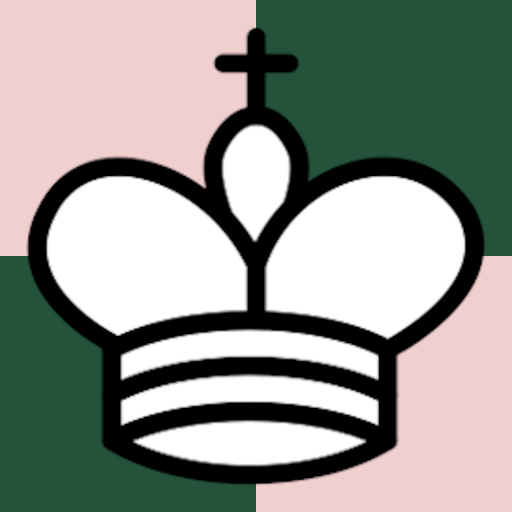
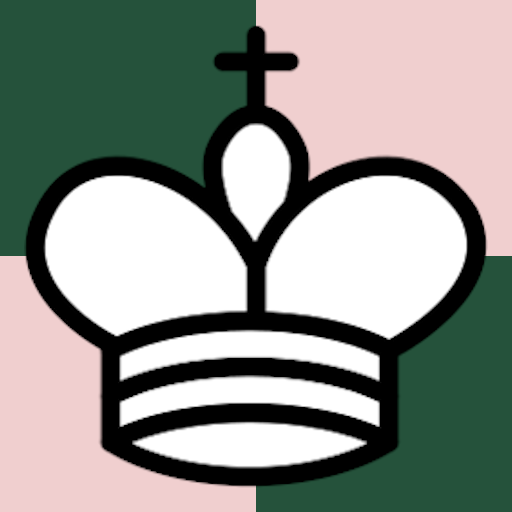
Version 4.2 -Add more options for the black tile color: Dark Green and Dark Gray -Add option to change the white tile color: White or Pink

diff --git a/src/chess_gui/SettingsWindow.java b/src/chess_gui/SettingsWindow.java
@@ -19,6 +19,7 @@ import enumerations.AiType;
 import enumerations.Allegiance;
 import enumerations.GameMode;
 import enumerations.GuiStyle;
+import utilities.Constants;
 import utilities.GameParameters;
 
 
@@ -36,6 +37,7 @@ public class SettingsWindow extends JFrame {
 	private JLabel aiTypeLabel;
 	private JLabel maxDepth1Label;
 	private JLabel maxDepth2Label;
+	private JLabel whiteTileColorLabel;
 	private JLabel blackTileColorLabel;
 	private JLabel numOfRowsLabel;
 
@@ -46,6 +48,7 @@ public class SettingsWindow extends JFrame {
 	private JComboBox<String> ai_type_drop_down;
 	private JComboBox<Integer> max_depth1_drop_down;
 	private JComboBox<Integer> max_depth2_drop_down;
+	private JComboBox<String> white_tile_color_drop_down;
 	private JComboBox<String> black_tile_color_drop_down;
 	SpinnerModel spinnerModel = new SpinnerNumberModel(8, 4, 8, 1);     
 	private JSpinner num_of_rows_spinner = new JSpinner(spinnerModel);
@@ -56,7 +59,7 @@ public class SettingsWindow extends JFrame {
 	private EventHandler handler;
 	
 	public static int width = 450;
-	public static int height = 410;
+	public static int height = 440;
 	
 	
 	public SettingsWindow() {
@@ -77,6 +80,7 @@ public class SettingsWindow extends JFrame {
 		AiType selectedAiMode = ChessGUI.gameParameters.aiType;
 		int maxDepth1 = ChessGUI.gameParameters.maxDepth1 - 1;
 		int maxDepth2 = ChessGUI.gameParameters.maxDepth2 - 1;
+		Color selectedWhiteTileColor = ChessGUI.gameParameters.whiteTileColor;
 		Color selectedBlackTileColor = ChessGUI.gameParameters.blackTileColor;
 		int numOfRows = ChessGUI.gameParameters.numOfRows;
 
@@ -88,6 +92,7 @@ public class SettingsWindow extends JFrame {
 		aiTypeLabel = new JLabel("AI type");
 		maxDepth1Label = new JLabel("Minimax AI 1 depth");
 		maxDepth2Label = new JLabel("Minimax AI 2 depth (AiVsAi)");
+		whiteTileColorLabel = new JLabel("White tile color");
 		blackTileColorLabel = new JLabel("Black tile color");
 		numOfRowsLabel = new JLabel("Number of rows");
 
@@ -99,6 +104,7 @@ public class SettingsWindow extends JFrame {
 		add(aiTypeLabel);
 		add(maxDepth1Label);
 		add(maxDepth2Label);
+		add(whiteTileColorLabel);
 		add(blackTileColorLabel);
 		add(numOfRowsLabel);
 
@@ -162,15 +168,29 @@ public class SettingsWindow extends JFrame {
 		
 		max_depth2_drop_down.setSelectedIndex(maxDepth2);
 		
+		white_tile_color_drop_down = new JComboBox<String>();
+		white_tile_color_drop_down.addItem("White");
+		white_tile_color_drop_down.addItem("Pink");
+		
+		if (selectedWhiteTileColor == Color.WHITE)
+			white_tile_color_drop_down.setSelectedIndex(0);
+		else if (selectedWhiteTileColor == Constants.BRIGHT_PINK)
+			white_tile_color_drop_down.setSelectedIndex(1);
+		
 		black_tile_color_drop_down = new JComboBox<String>();
+		black_tile_color_drop_down.addItem("Dark Green");
 		black_tile_color_drop_down.addItem("Black");
+		black_tile_color_drop_down.addItem("Dark Gray");
 		black_tile_color_drop_down.addItem("Gray");
 		
-		if (selectedBlackTileColor == Color.BLACK)
+		if (selectedBlackTileColor == Constants.DARK_GREEN)
 			black_tile_color_drop_down.setSelectedIndex(0);
-		else if (selectedBlackTileColor == Color.GRAY)
+		else if (selectedBlackTileColor == Color.DARK_GRAY)
 			black_tile_color_drop_down.setSelectedIndex(1);
-		
+		else if (selectedBlackTileColor == Color.GRAY)
+			black_tile_color_drop_down.setSelectedIndex(2);
+		else if (selectedBlackTileColor == Color.BLACK)
+			black_tile_color_drop_down.setSelectedIndex(3);
 		
 		spinnerModel.setValue(numOfRows);
 
@@ -182,6 +202,7 @@ public class SettingsWindow extends JFrame {
 		add(ai_type_drop_down);
 		add(max_depth1_drop_down);
 		add(max_depth2_drop_down);
+		add(white_tile_color_drop_down);
 		add(black_tile_color_drop_down);
 		add(num_of_rows_spinner);
 
@@ -192,8 +213,9 @@ public class SettingsWindow extends JFrame {
 		aiTypeLabel.setBounds(25, 145, 205, 20);
 		maxDepth1Label.setBounds(25, 175, 205, 20);
 		maxDepth2Label.setBounds(25, 205, 205, 20);
-		blackTileColorLabel.setBounds(25, 235, 205, 20);
-		numOfRowsLabel.setBounds(25, 265, 205, 20);
+		whiteTileColorLabel.setBounds(25, 235, 205, 20);
+		blackTileColorLabel.setBounds(25, 265, 205, 20);
+		numOfRowsLabel.setBounds(25, 295, 205, 20);
 		
 		gui_style_drop_down.setBounds(225, 25, 180, 20);
 		enable_sounds_check_box.setBounds(225, 55, 180, 20);
@@ -202,8 +224,9 @@ public class SettingsWindow extends JFrame {
 		ai_type_drop_down.setBounds(225, 145, 180, 20);
 		max_depth1_drop_down.setBounds(225, 175, 180, 20);
 		max_depth2_drop_down.setBounds(225, 205, 180, 20);
-		black_tile_color_drop_down.setBounds(225, 235, 180, 20);
-		num_of_rows_spinner.setBounds(225, 265, 180, 30);
+		white_tile_color_drop_down.setBounds(225, 235, 180, 20);
+		black_tile_color_drop_down.setBounds(225, 265, 180, 20);
+		num_of_rows_spinner.setBounds(225, 295, 180, 30);
 
 		apply = new JButton("Apply");
 		cancel = new JButton("Cancel");
@@ -211,9 +234,9 @@ public class SettingsWindow extends JFrame {
 		add(cancel);
 		
 		int distance = 10;
-		apply.setBounds((int) (width / 2) - 110 - (int) (distance / 2), 310, 100, 30);
+		apply.setBounds((int) (width / 2) - 110 - (int) (distance / 2), 340, 100, 30);
 		apply.addActionListener(handler);
-		cancel.setBounds((int) (width / 2) - 10 + (int) (distance / 2), 310, 100, 30);
+		cancel.setBounds((int) (width / 2) - 10 + (int) (distance / 2), 340, 100, 30);
 		cancel.addActionListener(handler);
 	}
 
@@ -238,13 +261,32 @@ public class SettingsWindow extends JFrame {
 					AiType aiMode = AiType.valueOf(ai_type_drop_down.getSelectedItem().toString().toUpperCase().replace(" ", "_"));
 					int maxDepth1 = (int) max_depth1_drop_down.getSelectedItem();
 					int maxDepth2 = (int) max_depth2_drop_down.getSelectedItem();
-					Color blackTileColor = (black_tile_color_drop_down.getSelectedIndex() == 0) ? Color.BLACK : Color.GRAY;
+					int whiteTileColorDropdownIndex = white_tile_color_drop_down.getSelectedIndex();
+					int blackTileColorDropdownIndex = black_tile_color_drop_down.getSelectedIndex();
 					int numOfRows = (int) num_of_rows_spinner.getValue();
 					// numOfRows = (numOfRows >= 8) ? numOfRows : 8;
 					
+					Color whiteTileColor = null;
+					if (whiteTileColorDropdownIndex == 0) {
+						whiteTileColor = Color.WHITE;
+					} else if (whiteTileColorDropdownIndex == 1) {
+						whiteTileColor = Constants.BRIGHT_PINK;
+					}
+					
+					Color blackTileColor = null;
+					if (blackTileColorDropdownIndex == 0) {
+						blackTileColor = Constants.DARK_GREEN;
+					} else if (blackTileColorDropdownIndex == 1) {
+						blackTileColor = Color.DARK_GRAY;
+					} else if (blackTileColorDropdownIndex == 2) {
+						blackTileColor = Color.GRAY;
+					} else if (blackTileColorDropdownIndex == 3) {
+						blackTileColor = Color.BLACK;
+					}
+					
 					// Change game parameters based on the settings.
 					ChessGUI.newGameParameters = new GameParameters(guiStyle, enableSounds, humanPlayerAllegiance,
-							gameMode, aiMode, maxDepth1, maxDepth2, blackTileColor, numOfRows); 
+							gameMode, aiMode, maxDepth1, maxDepth2, whiteTileColor, blackTileColor, numOfRows); 
 					
 					JOptionPane.showMessageDialog(ChessGUI.frame,
 							"Game settings have been changed.\nThe changes will be applied in the next new game.",

diff --git a/src/utilities/GameParameters.java b/src/utilities/GameParameters.java
@@ -24,13 +24,14 @@ public class GameParameters {
 		this.aiType = otherGameParameters.aiType;
 		this.maxDepth1 = otherGameParameters.maxDepth1;
 		this.maxDepth2 = otherGameParameters.maxDepth2;
+		this.whiteTileColor = otherGameParameters.whiteTileColor;
 		this.blackTileColor = otherGameParameters.blackTileColor;
 		this.numOfRows = otherGameParameters.numOfRows;
 	}
 	
 	
-	public GameParameters(GuiStyle guiStyle, boolean enableSounds, Allegiance humanPlayerAllegiance, 
-			GameMode gameMode, AiType aiMode, int maxDepth1, int maxDepth2, Color blackTileColor, int numOfRows) {
+	public GameParameters(GuiStyle guiStyle, boolean enableSounds, Allegiance humanPlayerAllegiance, GameMode gameMode,
+			AiType aiMode, int maxDepth1, int maxDepth2, Color whiteTileColor, Color blackTileColor, int numOfRows) {
 		this.guiStyle = guiStyle;
 		this.enableSounds = enableSounds;
 		this.humanPlayerAllegiance = humanPlayerAllegiance;
@@ -38,6 +39,7 @@ public class GameParameters {
 		this.aiType = aiMode;
 		this.maxDepth1 = maxDepth1;
 		this.maxDepth2 = maxDepth2;
+		this.whiteTileColor = whiteTileColor;
 		this.blackTileColor = blackTileColor;
 		this.numOfRows = numOfRows;
 	}
@@ -61,9 +63,14 @@ public class GameParameters {
 	
 	public int maxDepth1 = 1;
 	public int maxDepth2 = 1;
+	
+	public Color whiteTileColor = Color.WHITE;
+	// public Color whiteTileColor = Color.PINK;
 
-	public Color blackTileColor = Color.BLACK;
-	// public static Color blackTileColor = Color.GRAY;
+	public Color blackTileColor = Constants.DARK_GREEN;
+	// public Color blackTileColor = Color.BLACK;
+	// public Color blackTileColor = Color.DARK_GRAY;
+	// public Color blackTileColor = Color.GRAY;
 
 	public int numOfRows = 8;  // the number of rows
 

diff --git a/src/utilities/Constants.java b/src/utilities/Constants.java
@@ -1,10 +1,12 @@
 package utilities;
 
+import java.awt.Color;
+
 public class Constants {
 	
 	private Constants() { }  // Prevents instantiation.
 	
-	public final static double VERSION = 4.1;
+	public final static double VERSION = 4.2;
 	
 	public final static int CHESS_SQUARE_PIXEL_SIZE = 48;
 
@@ -18,6 +20,9 @@ public class Constants {
 	
 	public final static int NO_PIECE_CAPTURE_DRAW_HALFMOVES_LIMIT = 100;
 	public final static int MIDDLEGAME_HALFMOVES_THRESHOLD = 24;
+	
+	public final static Color BRIGHT_PINK = new Color(240, 207, 207);
+	public final static Color DARK_GREEN = new Color(37, 82, 59);
 	
 	// NOT USED
 	/*

diff --git a/src/chess_gui/ChessGUI.java b/src/chess_gui/ChessGUI.java
@@ -1704,7 +1704,7 @@ public class ChessGUI {
 		if ((column % 2 == 1 && row % 2 == 1)
 				//) {
 			|| (column % 2 == 0 && row % 2 == 0)) {
-			color = Color.WHITE;
+			color = gameParameters.whiteTileColor;
 		} else {
 			color = gameParameters.blackTileColor;
 		}
